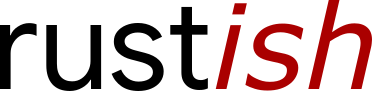
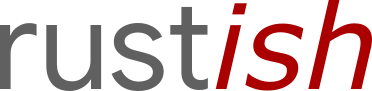
Update README

Changed region(s): [[0.0, 0.0659, 0.5618, 1.0]]

diff --git a/README.md b/README.md
@@ -2,7 +2,7 @@
   <img alt="logo" src="https://raw.githubusercontent.com/griffi-gh/rustish/master/.assets/logo.png" border="0" width="92.1" height="92.1" align="right">
   <!--HEADER-->
   <h1 align="center">
-    <img alt="rustish" src="https://raw.githubusercontent.com/griffi-gh/rustish/master/.assets/rustish-2.png" border="0" height="24">
+    <img alt="rustish" src="https://raw.githubusercontent.com/griffi-gh/rustish/master/.assets/rustish.png" border="0" height="24">
   </h1>
   <!--BADGES-->
   <div align="center">
